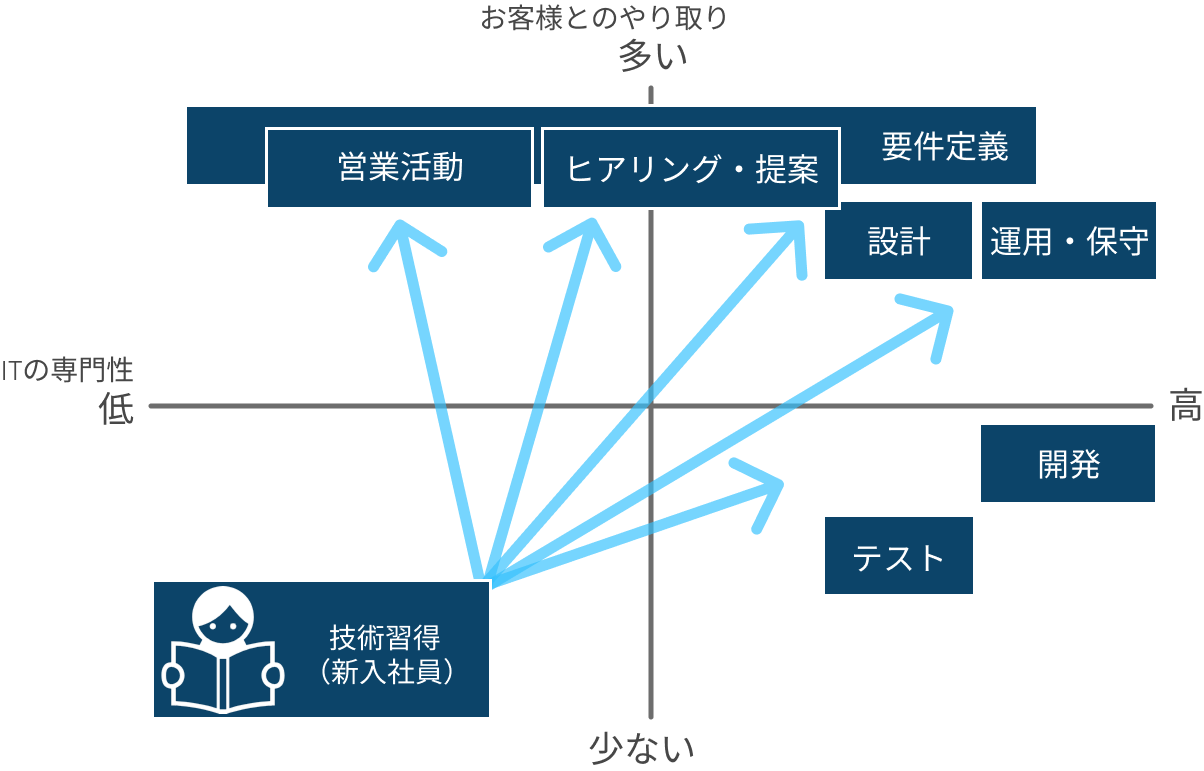
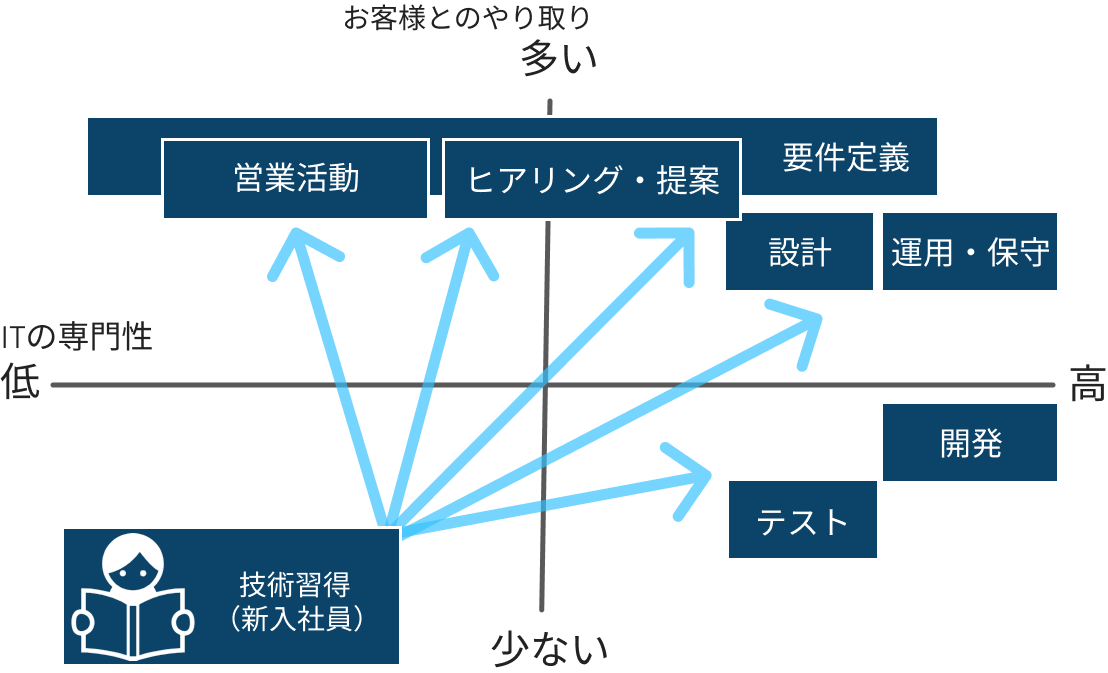
ビジネスモデル図に補足分を追加しました

Changed region(s): [[0.0, 0.0, 1.0, 0.9985]]

diff --git a/採用ページ（後藤作業中）/html/aboutus.html b/採用ページ（後藤作業中）/html/aboutus.html
@@ -265,8 +265,15 @@
         <!--BUSINESS MODEL-->
         <div class="business-model">
           <h2>BUSINESS MODEL</h2>
-          <div class="business-model-contents">
+          <p class="business-model-content">
+            IT業界の仕事に対して、どのようなイメージを持っていますか？<br>
+            専門知識がないとついていけない、ひたすらパソコンに向かって作業をしているなど、いろいろな考えがあると思います。<br>
+            しかし、高度な技術が必要とされる業務は部分的なもので、専門知識も入社後でも十分間に合います。<br>
+            ユーテックは、これまで皆さんが培ってきた経験や知識、考え方をぜひあらゆる面で生かしていただきたいと考えています。
+          </p>
+          <div class="business-model-fig">
             <img src="../images/aboutus/how to work.png" alt="">
+            <p class="business-model-figcaption">業務イメージ図</p>
           </div>
         </div>
         <!--BUSINESS MODEL-->

diff --git a/採用ページ（後藤作業中）/css/aboutus.css b/採用ページ（後藤作業中）/css/aboutus.css
@@ -82,9 +82,9 @@
 .customer-inside{
     width: 100%;
     /* height: 450px; */
-    background-image: url(../images/aboutus/customer.jpg);
     background-repeat: no-repeat;
     background-size: cover;
+    background-image:linear-gradient(rgba(0, 0, 0, 0.445), rgba(0, 0, 0, 0.5)), url(../images/aboutus/customer.jpg);
 }
 .customer h4{
     font-size: min(3.3vw,25px);
@@ -331,14 +331,28 @@
     h2{
         font-size: 27px;
         font-weight: bold;
-        margin-top: 10%;
+        margin-top: 5vh;
+        margin-bottom: 2vh;
     }
 }
-.business-model-contents{
+.business-model-content{
+    text-align: start;
+    padding: 2vh 15%;
+    line-height: 1.5;
+    font-size:min(3vw,22px)
+}
+.business-model-fig{
     img{
         margin-top: 15px;
-        width: 80%;
+        max-width: 90%;
+        max-height: 500px;
+        margin-bottom: 1vh;
     }
+    margin-bottom: 3vh;
+}
+.business-model-figcaption{
+    text-align: center;
+    font-size:min(3vw,22px)
 }
 
 /*これから*/
